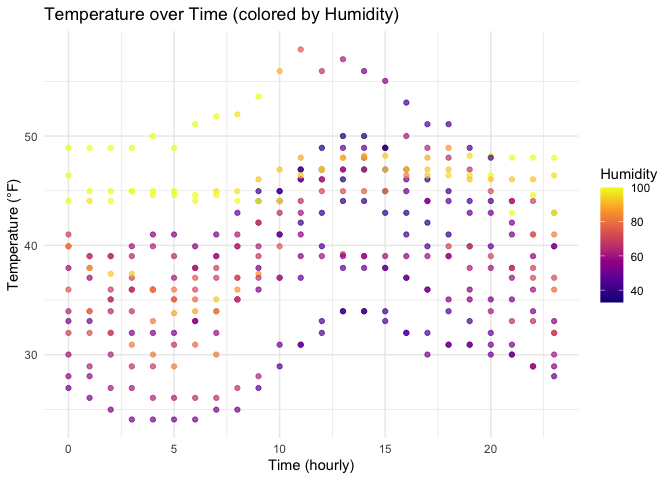
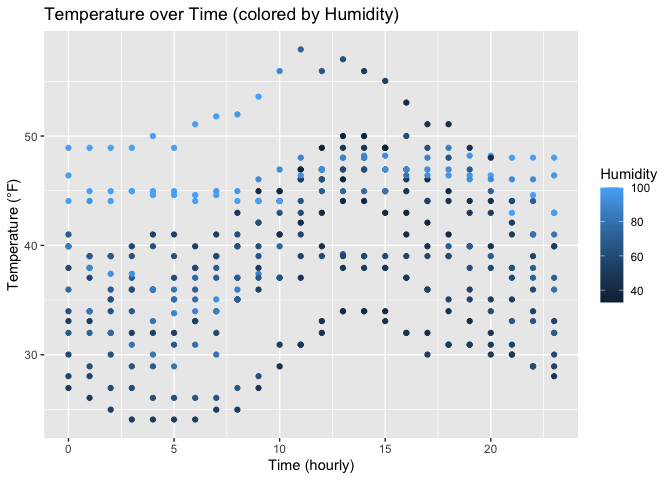
Cleanup of file

diff --git a/p8105_hw1_sp4436.md b/p8105_hw1_sp4436.md
@@ -15,28 +15,10 @@ chunks within the document. You can embed an R code chunk like this:
 
 ``` r
 library(tidyverse)
-```
-
-    ## Warning: package 'ggplot2' was built under R version 4.3.3
-
-    ## Warning: package 'dplyr' was built under R version 4.3.1
-
-    ## ── Attaching core tidyverse packages ──────────────────────── tidyverse 2.0.0 ──
-    ## ✔ dplyr     1.1.4     ✔ readr     2.1.4
-    ## ✔ forcats   1.0.0     ✔ stringr   1.5.0
-    ## ✔ ggplot2   3.5.2     ✔ tibble    3.2.1
-    ## ✔ lubridate 1.9.2     ✔ tidyr     1.3.0
-    ## ✔ purrr     1.0.1     
-    ## ── Conflicts ────────────────────────────────────────── tidyverse_conflicts() ──
-    ## ✖ dplyr::filter() masks stats::filter()
-    ## ✖ dplyr::lag()    masks stats::lag()
-    ## ℹ Use the conflicted package (<http://conflicted.r-lib.org/>) to force all conflicts to become errors
-
-``` r
 library(moderndive)
+library(ggplot2)
+library(tibble)
 ```
-
-    ## Warning: package 'moderndive' was built under R version 4.3.3
 
 ``` r
 #import and quickly view the data
@@ -128,13 +110,11 @@ library(ggplot2)
 
 p <- ggplot(early_january_weather,
             aes(x = hour, y = temp, color = humid)) +
-  geom_point(alpha = 0.7) +
+  geom_point() +
   labs(title = "Temperature over Time (colored by Humidity)",
        x = "Time (hourly)", 
        y = "Temperature (°F)",
-       color = "Humidity") +
-  scale_color_viridis_c(option = "plasma") +
-  theme_minimal()
+       color = "Humidity")
 
 p
 ```
